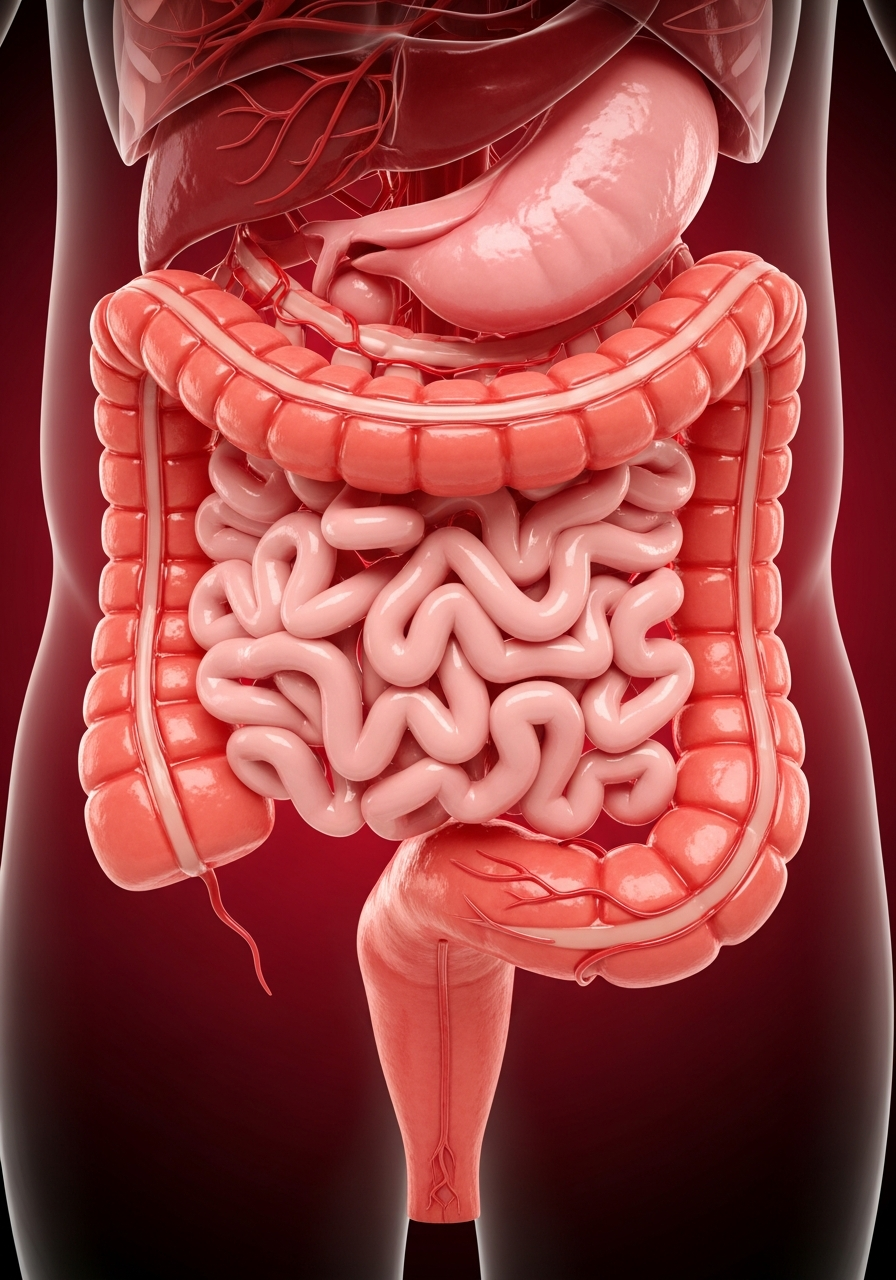
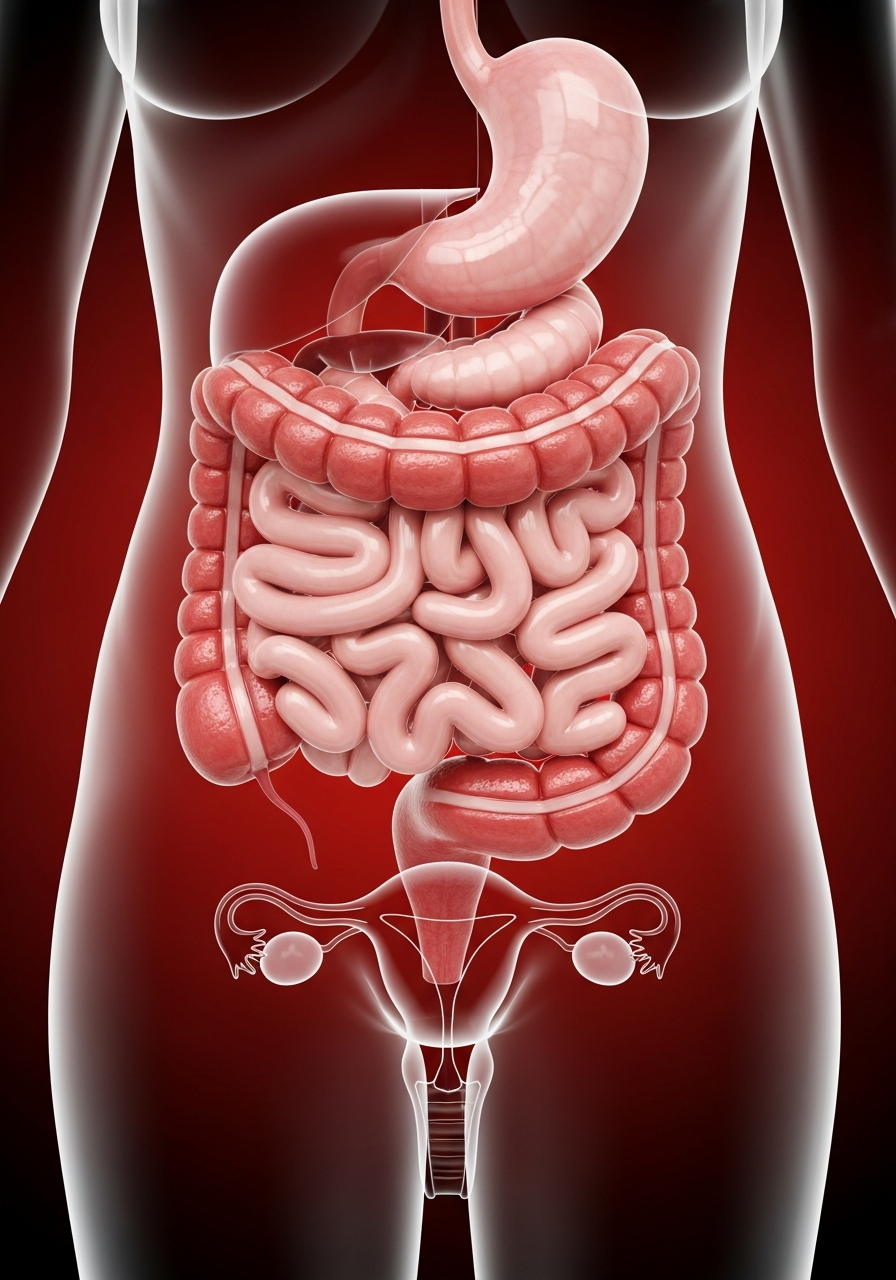
Update internal view with new female anatomy image and adjusted positioning
Replace `intestines.png` with a new female anatomy image and adjust its positioning and scaling within the `SimulationCanvas.tsx` component using `xMidYMid slice` preserveAspectRatio.

Replit-Commit-Author: Agent
Replit-Commit-Session-Id: 3e98c860-0e44-453b-a47d-cbe5d44e1421
Replit-Commit-Checkpoint-Type: full_checkpoint
Replit-Commit-Event-Id: f737995b-2b21-4d78-85c7-65de28481de2
Replit-Commit-Screenshot-Url: https://storage.googleapis.com/screenshot-production-us-central1/25260212-b8bd-484d-a5a8-c4685d4c8a37/3e98c860-0e44-453b-a47d-cbe5d44e1421/hP3Ob9o
Replit-Helium-Checkpoint-Created: true

diff --git a/artifacts/mobile/components/SimulationCanvas.tsx b/artifacts/mobile/components/SimulationCanvas.tsx
@@ -1419,12 +1419,12 @@ export function SimulationCanvas({ canvasLayout, onLayout }: CanvasProps) {
         {/* ===== INTERNAL ORGANS LAYER ===== */}
         {isInternal && (
           <G clipPath="url(#cavityClip)">
-            {/* Intestine anatomical background image — enlarged to fill cavity better */}
+            {/* Intestine anatomical background image — female anatomy, 3:4 portrait, slice to fill cavity */}
             <SvgImage
               href={INTESTINES_REF}
-              x={CAVITY_CX - CAVITY_RX * 1.05} y={CAVITY_CY - CAVITY_RY * 1.05}
-              width={CAVITY_RX * 1.05 * 2} height={CAVITY_RY * 1.05 * 2}
-              preserveAspectRatio="xMidYMid meet" opacity={0.42} />
+              x={CAVITY_CX - CAVITY_RX * 1.08} y={CAVITY_CY - CAVITY_RY * 1.12}
+              width={CAVITY_RX * 1.08 * 2} height={CAVITY_RY * 1.12 * 2}
+              preserveAspectRatio="xMidYMid slice" opacity={0.48} />
             <Ellipse cx={CAVITY_CX} cy={CAVITY_CY} rx={CAVITY_RX - 2} ry={CAVITY_RY - 2}
               fill="none" stroke="#3a1010" strokeWidth={4} />
 
